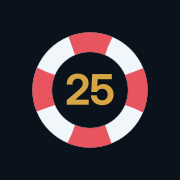
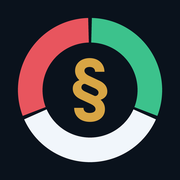
Eigene App-Symbole: Positionslichter-Sektoren mit Paragrafenzeichen
Ring mit Backbord rot und Steuerbord grün (je 112,5° ab voraus) und
weissem Hecklicht (135° achtern), in der Mitte § in Messing. Farben
aus der App-Palette. Zwischenspeicher auf seemupr-v2 erhöht.

Claude-Session: https://claude.ai/code/session_012wonZ2s5NeqYYGxPYCSTUC

diff --git a/sw.js b/sw.js
@@ -7,7 +7,7 @@
    (GitHub Pages) läuft.
    ========================================================================== */
 
-const BESTAND = "seemupr-v1";
+const BESTAND = "seemupr-v2";
 
 const DATEIEN = [
   "./",

diff --git a/README.md b/README.md
@@ -86,7 +86,7 @@ Die Fragen stehen in `index.html` im Block
 - **`mindestanzahl`**: so viele Elemente braucht „Richtig“ (zusätzlich zu allen
   Pflichtelementen). „Teilweise“ ab der Hälfte davon.
 
-Nach einer Änderung in `sw.js` die Zeile `const BESTAND = "seemupr-v1";`
+Nach einer Änderung in `sw.js` die Zeile `const BESTAND = "seemupr-v2";`
 hochzählen (`v2`, `v3` …), damit installierte Apps die neue Fassung laden.
 Nach einer Änderung an `index.html` ebenfalls.
 
